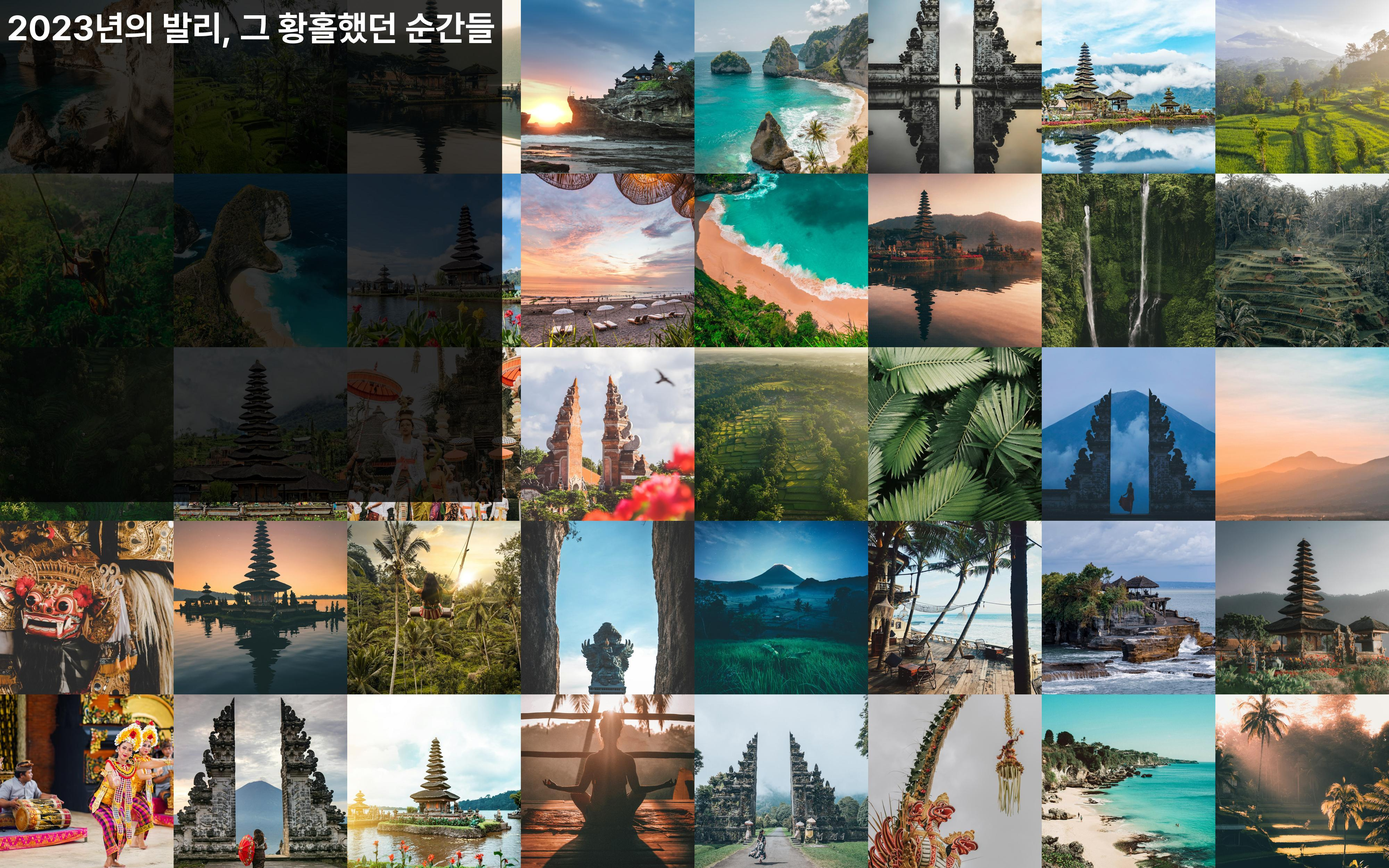
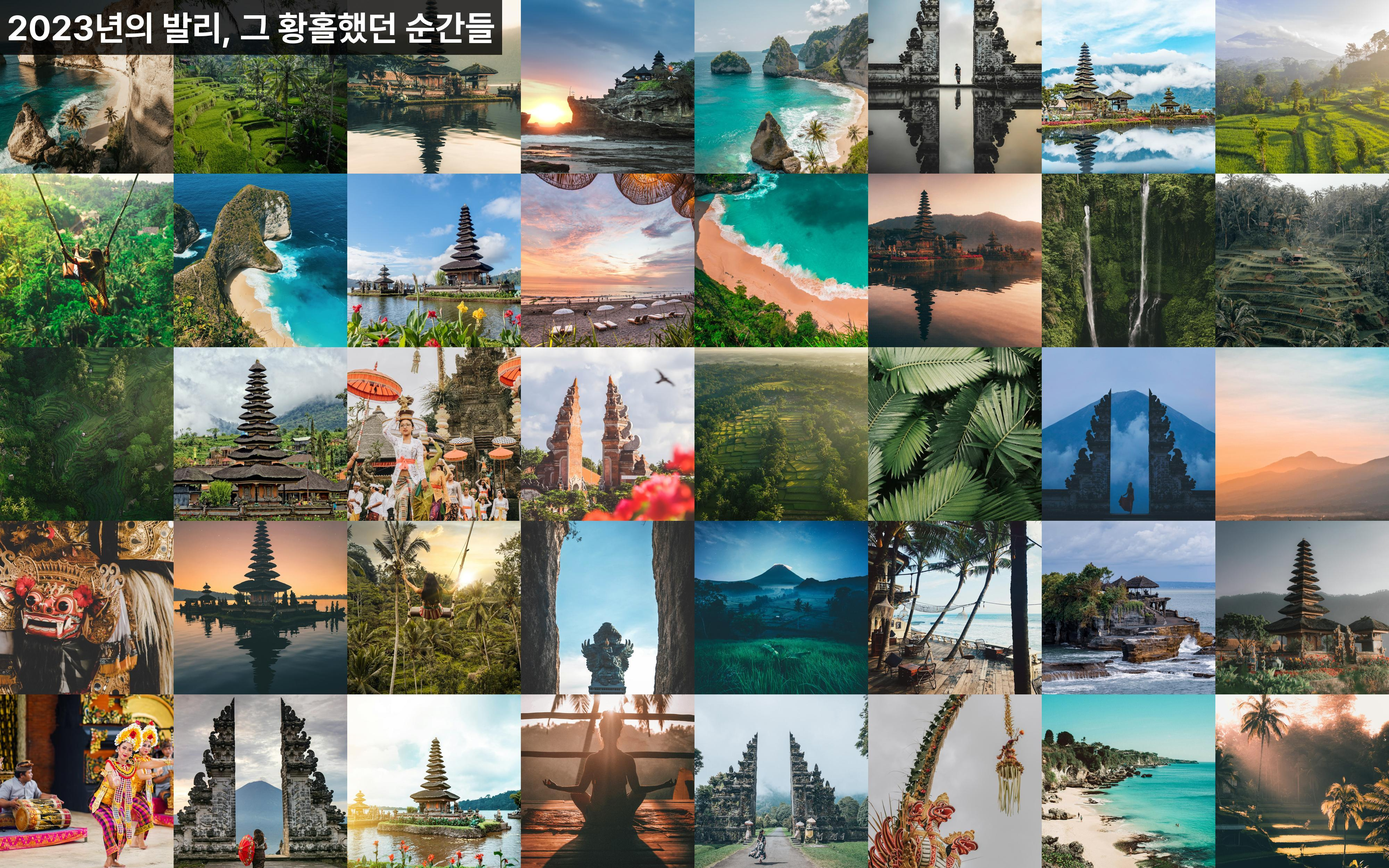
ch3 step_3_3, ch4 step_2_2 수정

Changed region(s): [[0.0, 0.0624, 0.375, 0.5928]]

diff --git a/ch3/step_3_3.py b/ch3/step_3_3.py
@@ -11,7 +11,7 @@ left, top, right, bottom = font.getbbox(text)
 
 pad = 20 #여백
 bg_width = pad + right + pad # 메시지 너비에 여백 추가
-bg_height = pad + right + pad # 메시지 높이에 여백 추가
+bg_height = pad + bottom + pad # 메시지 높이에 여백 추가
 
 img_bg = Image.new("RGBA", size=img_raw.size) # 배경 이미지 생성
 draw_bg = ImageDraw.Draw(img_bg) # 배경 이미지를 위한 ImageDraw 객체 생성
